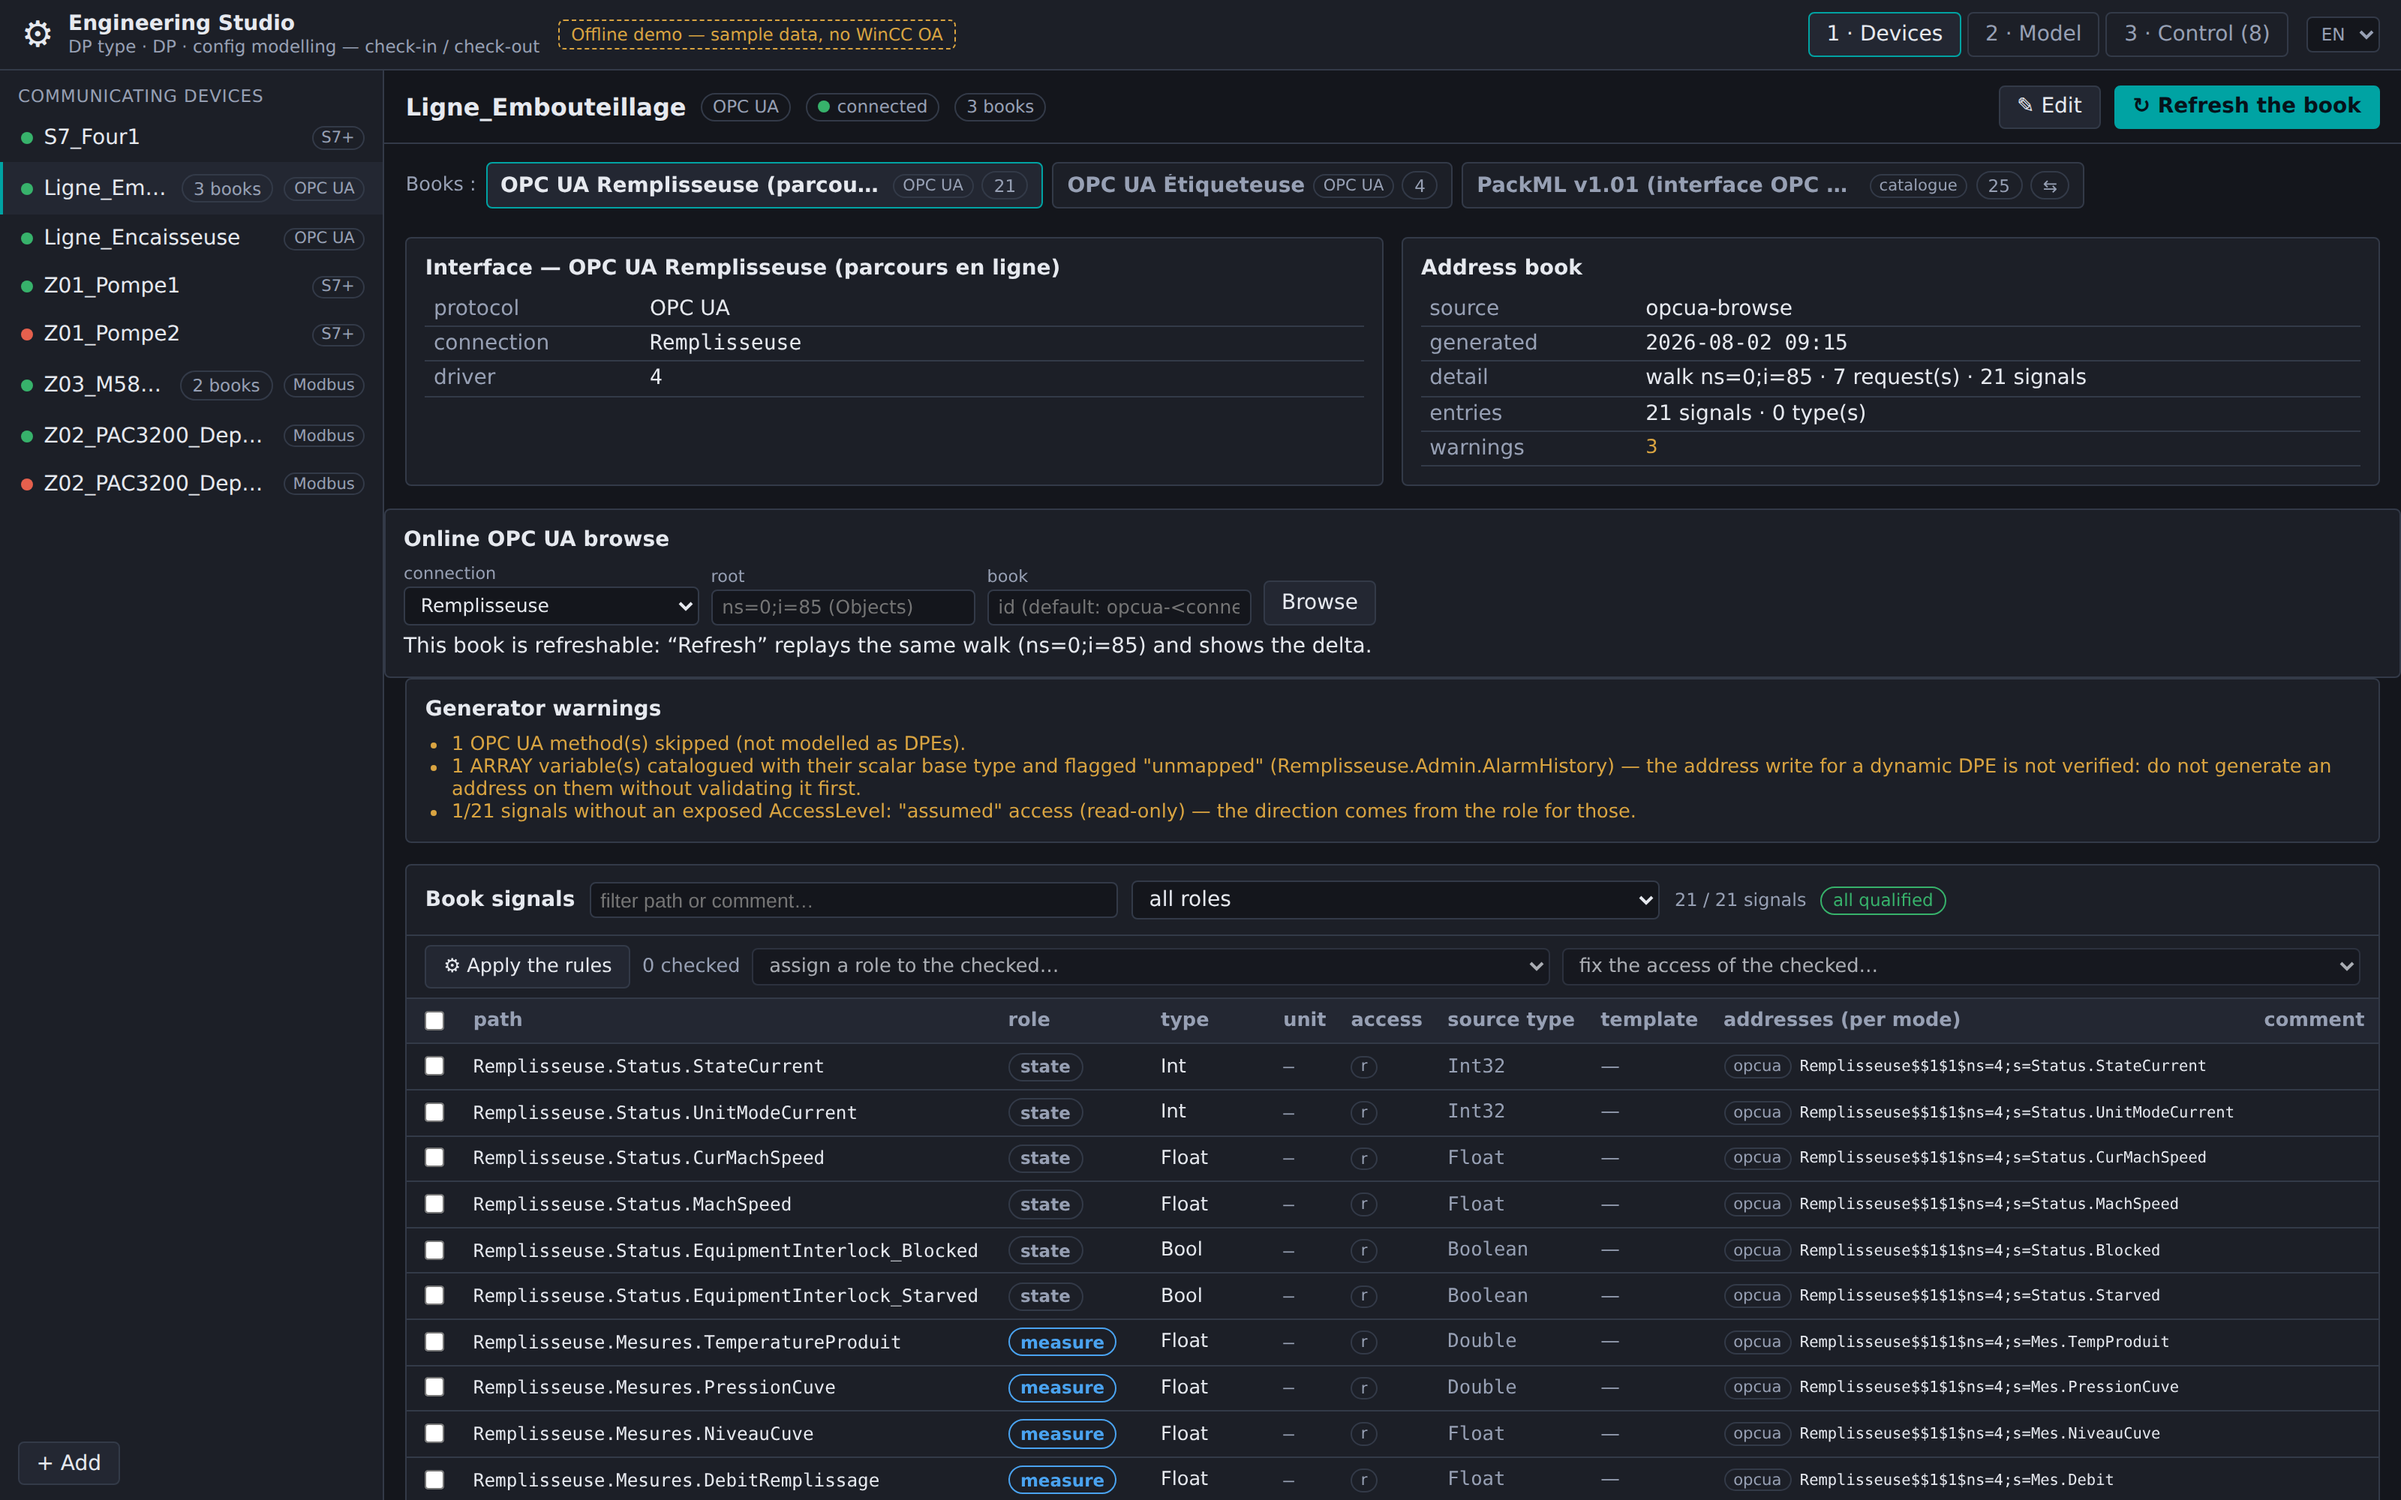
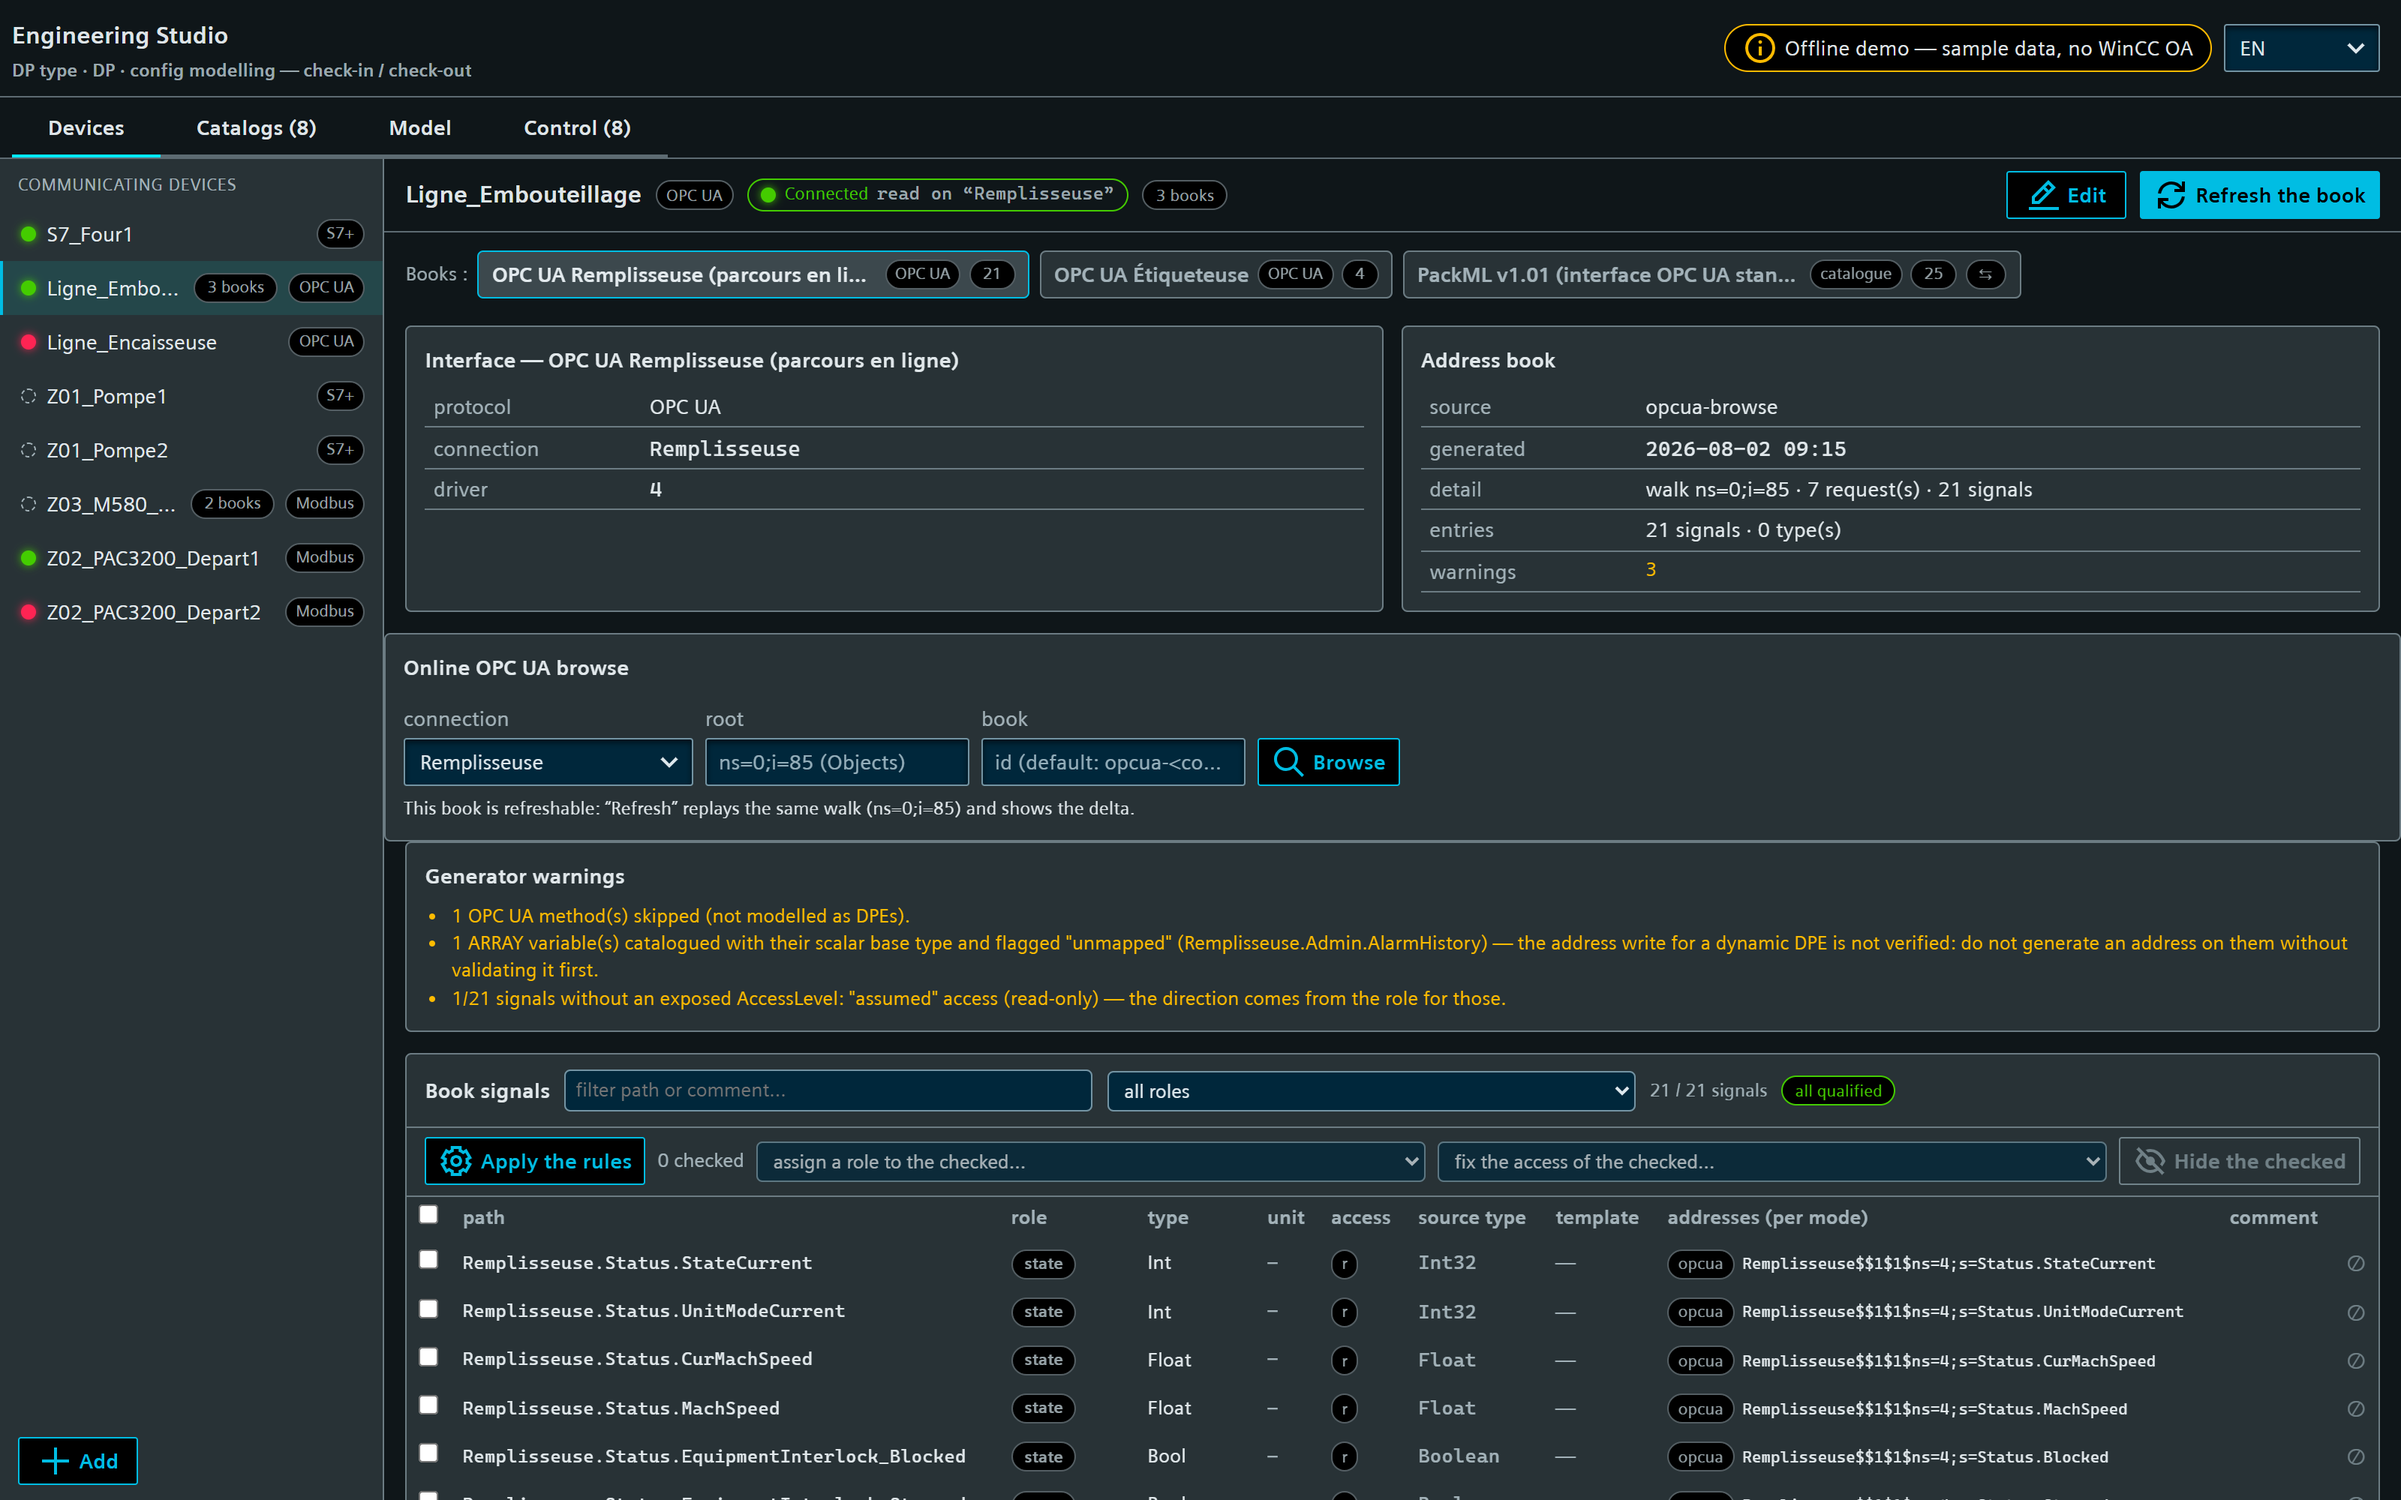
docs: the two deploy failure modes, and the eng-studio screenshots
DEVELOPMENT.md's gotchas were still telling the reader to `Clear site data` after every
menu change. That stopped being true (the menu-merge hook bumps index.html, so the
service worker purges itself and a plain F5 is enough), and it hid the two failures that
DO happen: a dashboard deployed without the additional pages, which is an unwired
scaffold rather than a cache problem, and a backend copied but not compiled, which
leaves the webserver serving the previous routes. Both now carry their symptom, their
cause and their repair command — see the preflight and postflight checks added to
`deploy-release.mjs` / `deploy-backend.mjs`.

The eng-studio manual images are recaptured for the current UI, plus eight new ones
(catalogs, the book form and its preview, the address-space explorer, hidden signals,
role tagging, device connection state, the Control tab's cleanup).

diff --git a/DEVELOPMENT.md b/DEVELOPMENT.md
@@ -123,8 +123,9 @@ shell's import map (its version). A `.js` built against another version won't wo
 > The page menu entries are merged into the deployed `menuconfig.json`
 > automatically — the `pageMenuMergePlugin` build hook merges every
 > `libs/wui-<page>/menu.fragment.jsonc` (idempotent by `routeId`), so no manual
-> menu edit is needed. On a **deployed** target, still do `Clear site data` in the
-> browser (the service worker caches the old `menuconfig.json`).
+> menu edit is needed. The same hook bumps `index.html`'s `Last-Modified`, which
+> makes the service worker purge its runtime caches → a plain **F5** is enough on
+> a deployed target (`Clear site data` is no longer required).
 
 ### (b) Distributable package per page
 ```bash
@@ -135,11 +136,32 @@ backend + descriptor, manager(s), `module.json`, `install.mjs`). Installation: s
 [packages/README.md](packages/README.md).
 
 ## Gotchas to know
-- **`Clear site data`** in the browser after any page or menu add/change **on a
-  deployed target**: the service worker caches `menuconfig.json` → **`Ctrl+Shift+R`
-  is not enough**. _In dev_ the SW is disabled and `pageMenuMergePlugin` re-merges
-  the fragments on every request → a plain reload (F5) is enough to see a new
-  page/menu.
+- **Dashboard deployed WITHOUT the additional pages** (only the runtime's own
+  pages, menu reduced to the shell entries) = the **scaffold is not wired**.
+  `webui-runtime-init` regenerates `apps/` and `libs/default-components/`
+  pristine (both untracked), and a restore from a stash/backup can drop them too:
+  `discoverPageLibs()` and `pageMenuMergePlugin` disappear, so the build emits
+  only `libs/default-components/.../standalone-pages/` and the base
+  `menuconfig.jsonc` — a *successful* build with an empty dashboard. It is **not**
+  a browser-cache problem. Repair (both idempotent), then redeploy:
+  `node tools/wire-workspace.mjs && node tools/install-page-dependencies.mjs`.
+  `tools/scripts/deploy-release.mjs` now refuses to build in that state, and
+  verifies after deploying that every selected module has a freshly written
+  bundle + a menu entry pointing at it.
+- **Backend deployed but NOT compiled** = the other "I redeployed and nothing
+  changed". `deploy-backend.mjs` copies the route sources into
+  `<ws>/src/modules/<page>/` and then runs the webserver's `npm run build` (tsc);
+  a tsc failure used to be a mere *warning*, so the deploy reported success while
+  the webserver kept serving the **previous** compiled routes (new endpoints 404).
+  It is now **fatal** (non-zero → `deploy-release.mjs` stops), and even a build that
+  exits 0 is checked per module: every `src/modules/<page>/*.ts` must have a
+  `dist/modules/<page>/*.js` that is **not older** than it. Remember that compiling
+  is still not loading — the `customer-webserver` manager must be restarted in pmon.
+- **Service worker**: page bundles are served **CacheFirst for ~15 days**; the SW
+  only purges when the cached `index.html`'s `Last-Modified` differs from the
+  origin's. `pageMenuMergePlugin` bumps it at the end of every build, so **F5** is
+  enough (a second reload may be needed for the purge to show). _In dev_ the SW is
+  disabled and the fragments are re-merged on every request.
 - **`@novnc/novnc` pinned `1.4.0`** (remote-vnc): `^1.4.0` floats to 1.7.0 whose
   `exports` forbid the deep import `@novnc/novnc/core/rfb.js`.
   `node tools/install-page-dependencies.mjs` installs it **exact** (`--save-exact`);
